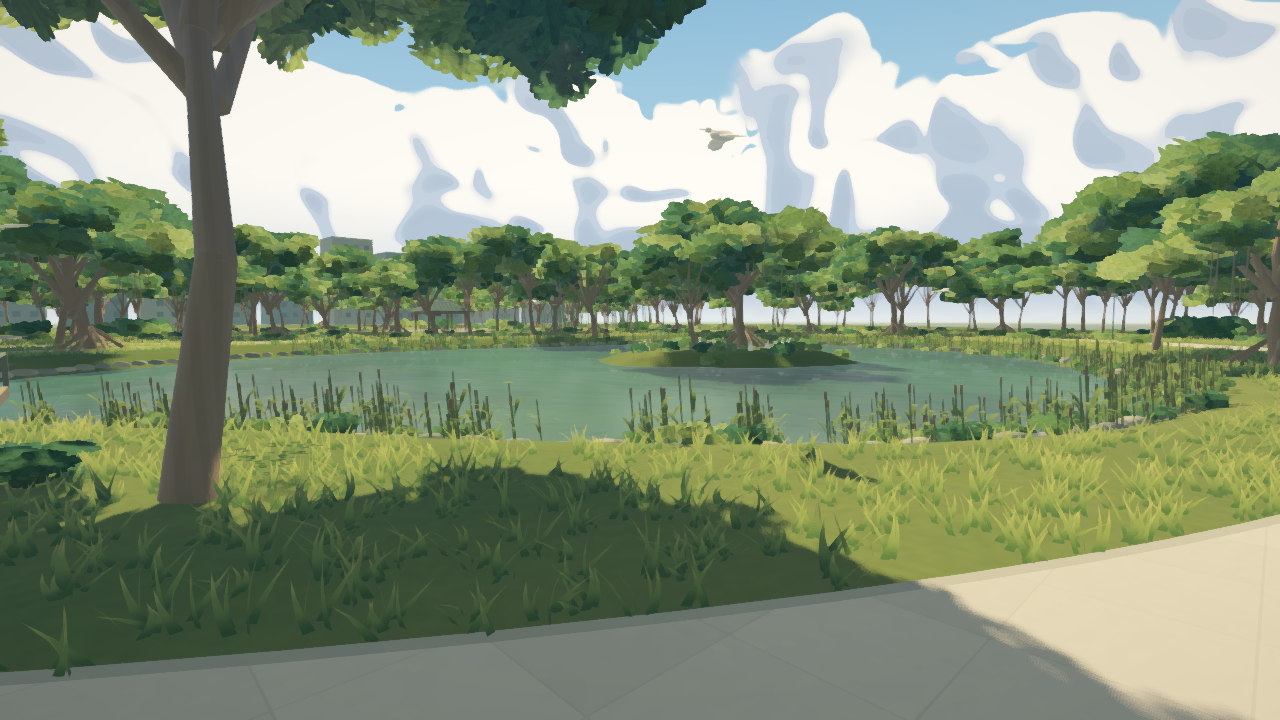
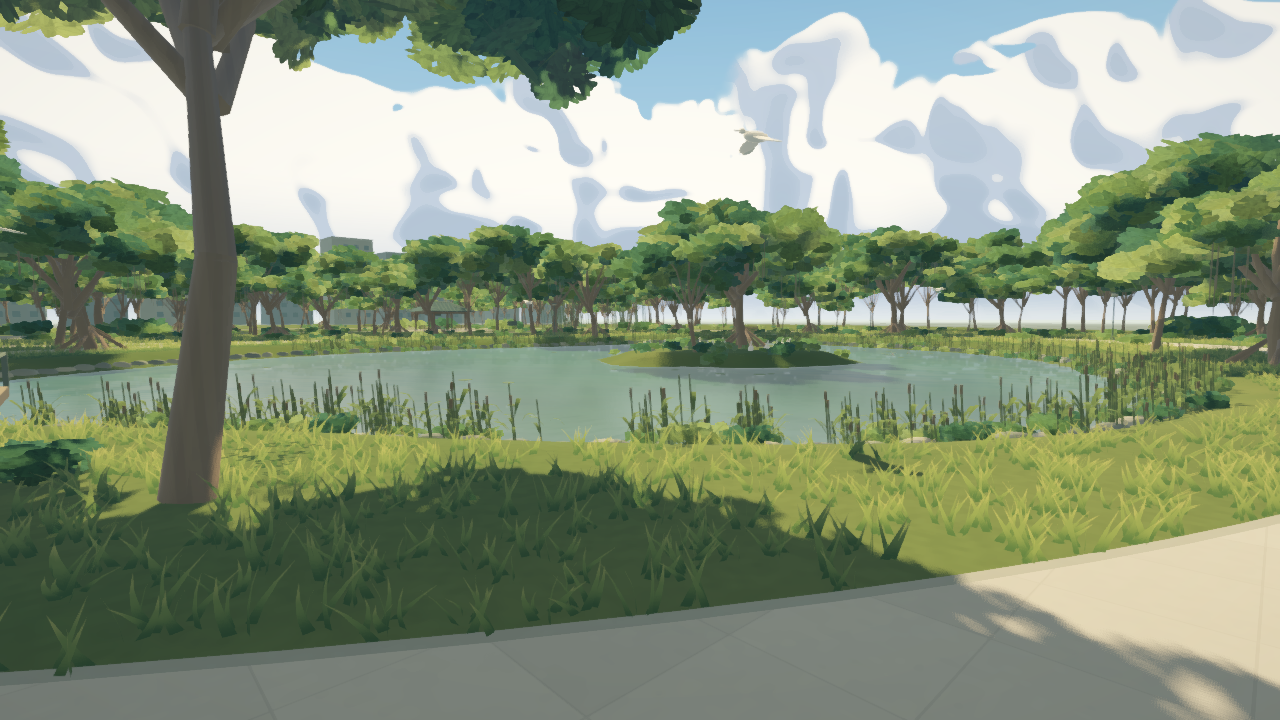
Harmonize procedural water with Cozy Sora summer maps

diff --git a/games/cozysora/shared/water/WaterFields.cs b/games/cozysora/shared/water/WaterFields.cs
@@ -1,0 +1,90 @@
+namespace CozySora.Water;
+
+/// <summary>Engine-independent fields, generated once per surface, never loaded from assets.</summary>
+public static class WaterFields
+{
+    // Separable lower envelopes of squared-distance parabolas, with world-space
+    // pixel spacing. The signed result interpolates across rasterized shore edges.
+    public static float[] ShoreDistance(float[] depth, int size, float stepX, float stepZ)
+    {
+        float[] ToClass(bool land)
+        {
+            var field = depth.Select(d => (d <= .002f) == land ? 0f : 1e10f).ToArray();
+            var row = new float[size]; var result = new float[size];
+            var sites = new int[size]; var cuts = new double[size + 1];
+            void Transform(float step)
+            {
+                double scale = step * step;
+                int count = 0; sites[0] = 0; cuts[0] = double.NegativeInfinity; cuts[1] = double.PositiveInfinity;
+                for (int q = 1; q < size; q++)
+                {
+                    double crossing;
+                    while (true)
+                    {
+                        int p = sites[count];
+                        crossing = ((double)row[q] - row[p] + scale * (q * q - p * p)) / (2 * scale * (q - p));
+                        if (crossing > cuts[count]) break;
+                        count--;
+                    }
+                    sites[++count] = q; cuts[count] = crossing; cuts[count + 1] = double.PositiveInfinity;
+                }
+                int active = 0;
+                for (int q = 0; q < size; q++)
+                {
+                    while (cuts[active + 1] < q) active++;
+                    int delta = q - sites[active];
+                    result[q] = (float)(scale * delta * delta + row[sites[active]]);
+                }
+            }
+            for (int z = 0; z < size; z++)
+            {
+                Array.Copy(field, z * size, row, 0, size); Transform(stepX);
+                Array.Copy(result, 0, field, z * size, size);
+            }
+            for (int x = 0; x < size; x++)
+            {
+                for (int z = 0; z < size; z++) row[z] = field[z * size + x];
+                Transform(stepZ);
+                for (int z = 0; z < size; z++) field[z * size + x] = result[z];
+            }
+            return field;
+        }
+        var toLand = ToClass(true); var toWater = ToClass(false);
+        float halfPixel = Math.Min(stepX, stepZ) * .5f;
+        for (int i = 0; i < depth.Length; i++)
+            toLand[i] = depth[i] > .002f ? Math.Min(32, MathF.Sqrt(toLand[i]) - halfPixel) : -Math.Min(32, MathF.Sqrt(toWater[i]) - halfPixel);
+        return toLand;
+    }
+
+    // Periodic, smoothly interpolated value noise: broad wind patches in R,
+    // smaller shoreline breakup in G. Texture mipmaps handle distant footprints.
+    public static byte[] WindAndShore(int size)
+    {
+        static float Noise(float x, float y, int period, uint seed)
+        {
+            int ix = (int)MathF.Floor(x), iy = (int)MathF.Floor(y);
+            float tx = x - ix, ty = y - iy;
+            tx = tx * tx * tx * (tx * (tx * 6 - 15) + 10);
+            ty = ty * ty * ty * (ty * (ty * 6 - 15) + 10);
+            float Hash(int a, int b)
+            {
+                uint h = unchecked((uint)(a % period) * 374761393u + (uint)(b % period) * 668265263u + seed);
+                h = (h ^ (h >> 13)) * 1274126177u;
+                return (h ^ (h >> 16)) / (float)uint.MaxValue;
+            }
+            float top = float.Lerp(Hash(ix, iy), Hash(ix + 1, iy), tx);
+            float bottom = float.Lerp(Hash(ix, iy + 1), Hash(ix + 1, iy + 1), tx);
+            return float.Lerp(top, bottom, ty);
+        }
+        var pixels = new byte[size * size * 2];
+        for (int y = 0; y < size; y++) for (int x = 0; x < size; x++)
+        {
+            float u = (float)x / size, v = (float)y / size;
+            float gust = Noise(u * 4, v * 4, 4, 137) * .65f + Noise(u * 8, v * 8, 8, 271) * .25f + Noise(u * 16, v * 16, 16, 419) * .1f;
+            float shore = Noise(u * 8, v * 8, 8, 853) * .55f + Noise(u * 32, v * 32, 32, 947) * .3f + Noise(u * 64, v * 64, 64, 1237) * .15f;
+            pixels[(y * size + x) * 2] = (byte)Math.Clamp((int)(gust * 255), 0, 255);
+            pixels[(y * size + x) * 2 + 1] = (byte)Math.Clamp((int)(shore * 255), 0, 255);
+        }
+        return pixels;
+    }
+}

diff --git a/games/cozysora/shared/water/CozyWaterSurface.cs b/games/cozysora/shared/water/CozyWaterSurface.cs
@@ -39,10 +39,21 @@ public partial class CozyWaterSurface : Node3D
         var phases = water._spectrum.Waves.Select(w => new Vector3(w.Number, w.Speed, w.Phase)).ToArray();
         m.SetShaderParameter("wave_shape", shapes); m.SetShaderParameter("wave_phase", phases);
         m.SetShaderParameter("bathymetry", ImageTexture.CreateFromImage(depthImage)); depthImage.Dispose();
+        var shore = WaterFields.ShoreDistance(water._depth, DepthResolution,
+            water._depthBounds.Size.X / (DepthResolution - 1), water._depthBounds.Size.Y / (DepthResolution - 1));
+        var shoreBytes = new byte[shore.Length * sizeof(float)]; Buffer.BlockCopy(shore, 0, shoreBytes, 0, shoreBytes.Length);
+        using var shoreImage = Image.CreateFromData(DepthResolution, DepthResolution, false, Image.Format.Rf, shoreBytes);
+        m.SetShaderParameter("shore_distance", ImageTexture.CreateFromImage(shoreImage));
+        using var windImage = Image.CreateFromData(128, 128, false, Image.Format.Rg8, WaterFields.WindAndShore(128));
+        windImage.GenerateMipmaps();
+        m.SetShaderParameter("surface_field", ImageTexture.CreateFromImage(windImage));
+        m.SetShaderParameter("shore_width", profile.ShoreWidth); m.SetShaderParameter("shore_color", profile.ShoreColor);
         m.SetShaderParameter("depth_bounds", new Vector4(water._depthBounds.Position.X, water._depthBounds.Position.Y, water._depthBounds.Size.X, water._depthBounds.Size.Y));
         m.SetShaderParameter("water_bounds", new Vector4(bounds.Position.X, bounds.Position.Y, bounds.End.X, bounds.End.Y));
         m.SetShaderParameter("deep_color", profile.DeepColor); m.SetShaderParameter("scatter_color", profile.ScatterColor);
-        m.SetShaderParameter("absorption", profile.Absorption); m.SetShaderParameter("fog_color", atmosphere.FogColor);
+        m.SetShaderParameter("absorption", profile.Absorption);
+        m.SetShaderParameter("fog_color", atmosphere.FogColor);
+        m.SetShaderParameter("fog_range", new Vector4(atmosphere.FogBegin, atmosphere.FogEnd, atmosphere.FogCurve, Mathf.Clamp(profile.MaximumFogOpacity, .1f, 1)));
         m.SetShaderParameter("wind", profile.Wind); m.SetShaderParameter("ripple_strength", profile.RippleStrength);
         m.SetShaderParameter("roughness", profile.Roughness); m.SetShaderParameter("optical_depth_min", profile.MinimumOpticalDepth);
         m.SetShaderParameter("shore_damping", profile.ShoreDampingDepth); m.SetShaderParameter("foam_strength", profile.FoamStrength);

diff --git a/games/cozysora/shared/water/CozyWaterProfile.cs b/games/cozysora/shared/water/CozyWaterProfile.cs
@@ -10,10 +10,13 @@ public partial class CozyWaterProfile : Resource
     [Export] public float Swell { get; set; } = .35f;
     [Export] public float Wind { get; set; } = .3f;
     [Export] public float RippleStrength { get; set; } = 1;
-    [Export] public float Roughness { get; set; } = .155f;
+    [Export] public float Roughness { get; set; } = .22f;
     [Export] public float MinimumOpticalDepth { get; set; } = 1.65f;
     [Export] public float ShoreDampingDepth { get; set; } = 2;
-    [Export] public float FoamStrength { get; set; } = .4f;
+    [Export] public float FoamStrength { get; set; } = .18f;
+    [Export(PropertyHint.Range, "0.1,1,0.01")] public float MaximumFogOpacity { get; set; } = 1;
+    [Export] public float ShoreWidth { get; set; } = 2.4f;
+    [Export] public Color ShoreColor { get; set; } = new("718985");
     [Export] public Color DeepColor { get; set; } = new("18496f");
     [Export] public Color ScatterColor { get; set; } = new("29767e");
     [Export] public Vector3 Absorption { get; set; } = new(.56f, .185f, .072f);

diff --git a/games/cozysora/shared/water/README.md b/games/cozysora/shared/water/README.md
@@ -10,18 +10,32 @@ The deployed code has **24 geometric wave components**, despite comments referri
 
 The dense near grid spans 216 m with 192 divisions. Stitched square rings expand to radii 210, 520, 1150 and 2920 m with decreasing segment counts. Unequal rings share stitched edges, and matched quads alternate diagonals. Short geometric waves fade as the grid becomes coarser. Beyond the dense region, analytic fragment normals and crest shading prevent the broad aerial views from exposing interpolated triangles. The mesh follows the camera; phases remain in world space.
 
-The material translates six normal-only capillary/gravity octaves, wavelength/derivative filtering, air/water Fresnel (F0 0.02037), Beer–Lambert absorption, crest scattering, fine satin detail and a bounded, footprint-filtered GGX sunlight lobe. Small phase advection and normal-variance roughness keep the sheltered profiles from producing ruled ripple patterns or unresolved sparkling. Godot supplies the current map’s filtered sky radiance, actual lights and shadows. Daan retains its existing screen-space reflections.
+The material translates six normal-only capillary/gravity octaves, wavelength/derivative filtering, air/water Fresnel (F0 0.02037), Beer–Lambert absorption, crest scattering, fine satin detail and a bounded, footprint-filtered GGX sunlight lobe. Small phase advection and normal-variance roughness keep the sheltered profiles from producing ruled ripple patterns or unresolved sparkling. Godot supplies the current map’s filtered sky radiance, actual lights and shadows. The material uses the map’s depth-fog color, range and curve through Godot’s final fog stage. The dielectric adapter uses `SPECULAR = sqrt(0.02037 / 0.16)` to match Forward+’s squared reflectance mapping. Daan retains its existing screen-space reflections.
 
 This is a water rendering and support component for Cozy Sora’s persistent summer settings. Sunwake’s 148-second storm/surge cycle, exceptional hero-wave packets, sailing hull/wake simulation, headlamp, celestial clock and story events are not part of these maps. Fixed map profiles intentionally preserve the existing weather and gameplay. The result is not claimed to reproduce the entire Sunwake simulation.
+
+## Harmony with the summer maps
+
+The follow-up keeps the geometric spectrum and support behavior intact. It improves how those waves read within the maps:
+
+- The map’s depth-fog curve attenuates the final water lighting, including reflections. The former independent 280–2300 m sea-haze ramp left saturated water beside fogged-out terrain. A map-owned middle-distance opacity retains water identity where the elevated Seabreeze road otherwise overlooks an opaque white field. The bound fades away for cameras 50–100 m above the surface and for water 1.15–4 times the map fog-end distance away, preserving full aerial and horizon haze. Harbor, pond and paddies use the full map fog range without that bound.
+- A deterministic, seamless two-channel C# texture supplies slow wind patches and smaller shoreline breakup. Quintic interpolation and multiple periodic scales produce gentle gust regions; mipmaps filter their distant appearance. The normal-only ripples remain phase-continuous and leave quieter areas between patches. This field follows the paused simulation clock, not shader `TIME`.
+- A separable squared Euclidean distance transform measures distance to wet and dry terrain samples in world meters. Their signed combination interpolates across the rasterized bank. A narrow, irregular color transition softens shoreline contact even in Daan’s almost-flat pond; sparse moving foam is reserved for the coast. Paddies also measure distance to their authored rectangular bounds. This is a shading field, not a change to terrain, collision or water support.
+- Map-owned roughness, modestly muted coastal body colors, quieter crest scattering and a lower direct-sun peak retain readable broad swells without making the sea the hardest, brightest material in the scene. Harbor remains sheltered, Seabreeze more open, the pond mossy and still, and paddies almost motionless and foam-free.
+
+Technique references: [GPU Gems, Effective Water Simulation from Physical Models](https://developer.nvidia.com/gpugems/gpugems/part-i-natural-effects/chapter-1-effective-water-simulation-physical-models) describes separate geometric and normal-detail scales and analytic wave derivatives. [Felzenszwalb and Huttenlocher, Distance Transforms of Sampled Functions](https://cs.brown.edu/people/pfelzens/papers/dt-final.pdf) describes separable lower envelopes for distance transforms; this project implements the algorithm in original C#. [Godot’s Forward+ lighting source](https://github.com/godotengine/godot/blob/master/servers/rendering/renderer_rd/shaders/scene_forward_lights_inc.glsl) defines the dielectric reflectance mapping. No reference code or assets are bundled. The fog calculation follows [Godot 4.7.2’s depth-fog and custom-fog stages](https://github.com/godotengine/godot/blob/4.7.2-stable/servers/rendering/renderer_rd/shaders/forward_clustered/scene_forward_clustered.glsl), with the bounded low-camera adaptation described above.
+
+The shore field follows the resolution of the generated bathymetry; it cannot add detail to the authored terrain silhouette. Wind fields affect shading only, so they do not add a second buoyancy simulation. The existing adaptive wave mesh and footprint filtering avoid the cost of an FFT ocean or a fluid solver for these calm, fixed-weather maps.
 
 ## Ownership
 
 | File | Responsibility |
 | --- | --- |
 | `WaterSpectrum.cs` | Engine-independent C# wave construction and height, slope, displacement and vertical-velocity queries using `System.Numerics` |
+| `WaterFields.cs` | Engine-independent signed shore-distance transform and periodic wind/breakup field generation |
 | `WaterMesh.cs` | Engine-independent C# grid/ring geometry and triangle indices |
 | `CozyWaterProfile.cs` | Godot resource adapter exposing map-owned wave and optical settings |
-| `CozyWaterSurface.cs` | Godot node adapter, generated mesh and 257² floating-point bathymetry texture, shared simulation clock and uniform upload |
+| `CozyWaterSurface.cs` | Godot node adapter, generated mesh and 257² floating-point bathymetry/shore textures, mipmapped 128² RG wind field, shared simulation clock and uniform upload |
 | `CozyWaterFloat.cs` | Godot adapter for anchored boats and buoys, sampling height and tilt across the shared surface |
 | `water.gdshader` | Matching geometric displacement plus water optics and view-filtered fine surface detail |
 

diff --git a/games/cozysora/VERIFICATION.md b/games/cozysora/VERIFICATION.md
@@ -187,3 +187,18 @@ Ordinary active play was observed at approximately 39–60 FPS across the three-
 Extended interactive Movie Maker exit exposed an `AudioStreamGeneratorPlayback` reference retained until the next audio mix. Shutdown now stops and disposes the player’s playback and allows two frames for the mixer to release its stopped reference before quitting; capture-triggered exits use the same path. The verbose native recording replay in `daan-exit-drained.log` exited with code 0 and no leaked-instance, ObjectDB, exception or error report. Normal pond play also exited cleanly. Verbose Metal initialization can report its RGB8-to-RGBA8 image conversion fallback; generated textures render correctly on this driver.
 
 Final C# build completed with zero warnings/errors. Headless editor import and the refreshed native selector capture both completed successfully; the capture exit used the shared shutdown path.
+
+
+## Water harmony follow-up — 7 September 2026
+
+The worktree follow-up preserves the existing C# spectrum, mesh topology, terrain, gameplay support and session clock. It adds engine-independent generated wind/shore fields and map-owned optical tuning. No tests or external visual/audio assets were added. Primary-source technique notes and deliberate artistic limits are in [shared water](shared/water/README.md).
+
+Equivalent before/after captures covered both coastal water levels, Harbor waterfront/flight/top/cable-car, Seabreeze coast/top/paddies, and Daan pond/deck/island views. Independent visual review accepted the softer glints, quieter detail and restrained shoreline coloring, then rejected an intermediate version in which full map fog erased the ordinary Seabreeze road’s sea. Several native trials led to a bounded middle-distance haze for that map. It retains pale water behind the guardrail and full haze at the distant horizon and aerial cameras. The critic accepted the corrected coast and top views. Terrain bank silhouettes remain deliberately unchanged; shore improvement is subtle rather than a replacement of the low-poly shoreline.
+
+Twelve-second native Movie Maker captures of all three maps were inspected through adjacent-frame strips and temporal samples. Broad waves and glints changed continuously without observed silhouette popping; Daan retained nearly still mossy water and the paddy channel remained below the rice canopy. These fixed-30-FPS recordings include loading and are visual evidence, not performance measurements.
+
+Normal Daan play held a floating gull at XZ=(-20.622913,-13.604985), bobbing around Y=.66–.70. Pause held Y=.67137295 across consecutive reporting windows and unchanged water views; resume continued it. Takeoff reached Y=3.6853, followed by a new settled position on the pond. Switching to cat recovered the registered entrance at (59,1.0391,-58). The process exited cleanly. Active five-second windows were near a 16.6–16.7 ms median, with p95 values approximately 17.0–19.8 ms and an isolated 43.3 ms maximum. Another game was also rendering on this workstation; these are observations, not a controlled speedup or locked-60 claim. Metal GPU timings remain unavailable.
+
+Evidence is under `/tmp/cozysora-harmony`: baseline copies, numbered refinement rounds, final native views, motion recordings and `native-play.log`. Reviewers independently inspected the signed distance transform, periodic noise, generated texture ownership, unchanged wave support and monotone fog tuning. Hardware controllers, genuine simultaneous multi-touch, non-Metal GPUs and exported builds remain outside this follow-up’s native scope.
+
+The final build completed with zero warnings/errors. All 14 final native captures exited successfully. A 75-second ordinary-gull descent crossed the 100–50 m altitude range and continued below it; independent review of spaced and adjacent samples found gradual haze changes without an opacity step. The final native UI cycle entered Harbor → Seabreeze → Daan, checked coastal floating/takeoff and paused cat recovery, and returned from each map with zero remaining sessions, players, cameras, audio players or orphan nodes. It exited with code 0 and no reported errors or leaks. Both independent reviewers accepted the final result within the documented native scope. The three destination previews were refreshed, imported successfully and checked in the native selector. Final-cycle, altitude and preview-import evidence is retained alongside the earlier captures.
